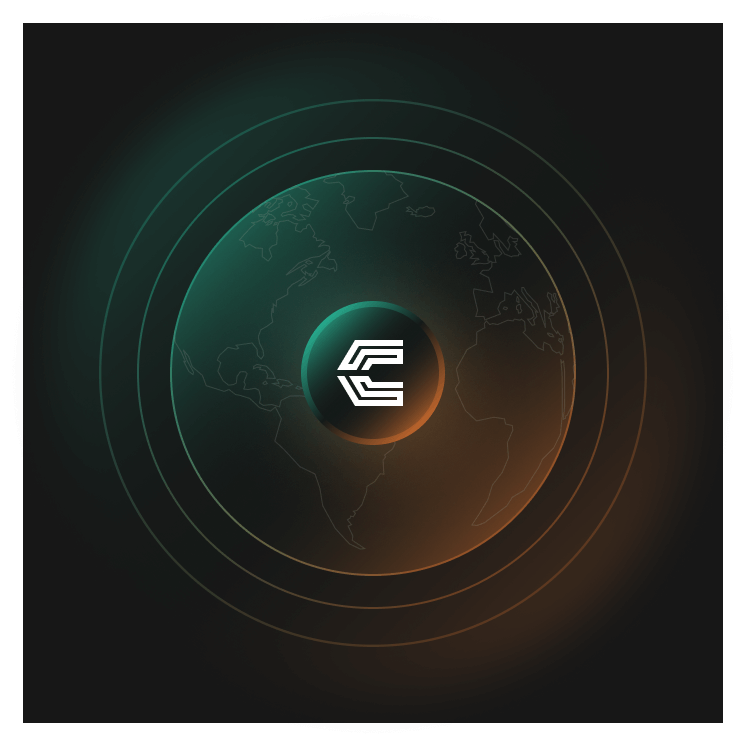
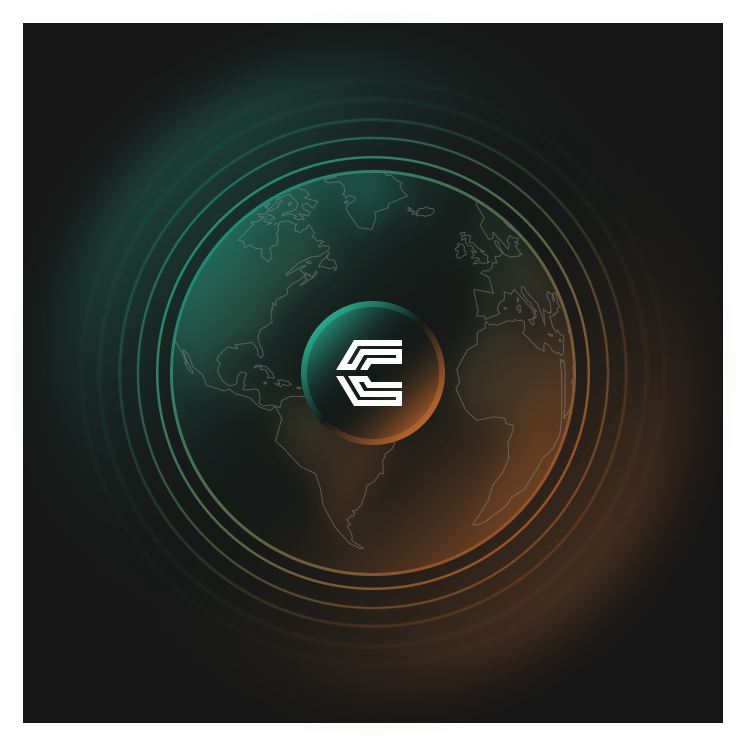
updated hero and subpage headers

diff --git a/about.html b/about.html
@@ -3,23 +3,23 @@ layout: default
 title: About us
 ---
 
-<section class="overflow-hidden mt-24 md:mt-12 py-12 md:py-32">
-  <div class="container mx-auto flex flex-col items-start">
-    <div class="text-secondary uppercase text-sm font-bold tracking-widest mb-4 lg:mb-8">About us</div>
+<section class="relative overflow-hidden my-24 md:my-12 py-12 md:py-32">
+  <div class="container mx-auto flex flex-col items-start relative z-10">
+      <div class="text-secondary uppercase text-sm font-bold tracking-widest mb-4 lg:mb-8">About</div>
       <h2 class="lg:text-7xl text-3xl mb-8 font-bold text-gray-50">
         The World of Travel <span class="text-primary">Reinvented</span>
       </h2>
-      <p class="text-muted text-lg md:text-2xl md:w-2/5 md:pr-8">
+      <p class="text-gray-200 text-lg md:text-2xl md:w-3/5 md:pr-8">
         Join the travel revolution today. With the latest blockchain technology, C4T enables you to shape the future of travel using the Camino Network.
       </p>
   </div>
+  <div class="z-0 bg-gradient-to-tr from-primary via-gray-900 to-secondary blur-3xl rounded-full w-screen h-48 absolute -bottom-24 left-1/2 -translate-x-1/2"></div>
 </section>
 
 <section x-data="{ thomasstirnimannModal: false }">
   <div class="container mx-auto flex pb-12 md:pb-24 justify-end items-center">
     <div class="hidden md:block lg:max-w-lg lg:w-full w-5/6 md:w-1/3 relative mb-8 lg:mb-0">
         <img class="object-cover object-center rounded-tl-3xl rounded-br-3xl relative z-10" alt="hero" src="../images/about-image-1.png">
-        <div class="z-0 bg-gradient-to-tl from-primary via-gray-900 to-secondary blur-lg rounded-full absolute -inset-4 opacity-50 -rotate-6"></div>
     </div>
     <div class="mb-2 md:w-2/3 md:pl-32">
       <svg xmlns="http://www.w3.org/2000/svg" fill="currentColor" class="block w-5 h-5 text-primary mb-4" viewBox="0 0 975.036 975.036">

diff --git a/supporter.html b/supporter.html
@@ -3,13 +3,14 @@ layout: default
 title: Supporters
 ---
 
-<section class="overflow-hidden mt-24 md:mt-12 py-12 md:py-32">
-    <div class="container mx-auto flex flex-col items-start">
-        <div class="text-secondary uppercase text-sm font-bold tracking-widest mb-4 lg:mb-8">Supporters</div>
-        <h2 class="lg:text-7xl text-3xl mb-8 font-bold text-gray-50">
-            The growing network of <span class="text-primary">Chain4Travel</span>
-        </h2>
-    </div>
+<section class="relative overflow-hidden my-24 md:my-12 py-12 md:py-32">
+  <div class="container mx-auto flex flex-col items-start relative z-10">
+      <div class="text-secondary uppercase text-sm font-bold tracking-widest mb-4 lg:mb-8">Supporters</div>
+      <h2 class="lg:text-7xl text-3xl mb-8 font-bold text-gray-50">
+        The growing network of <span class="text-primary">Chain4Travel</span>
+      </h2>
+  </div>
+  <div class="z-0 bg-gradient-to-tr from-primary via-gray-900 to-secondary blur-3xl rounded-full w-screen h-48 absolute -bottom-24 left-1/2 -translate-x-1/2"></div>
 </section>
 
 {% include "testimonials.html" %}

diff --git a/_includes/hero.html b/_includes/hero.html
@@ -1,7 +1,7 @@
 <section class="overflow-hidden" x-data="{ LitePaperModal: false }">
     <div class="container mx-auto flex py-12 md:py-32 md:mt-12 md:flex-row flex-col items-center mt-24">
         <div class="lg:w-1/2 flex flex-col md:items-start md:text-left mb-16 md:mb-0 items-center text-center">
-            <h1 class="2xl:text-7xl xl:text-6xl sm:text-5xl text-4xl mb-8 font-black text-gray-50">
+            <h1 class="2xl:text-7xl xl:text-6xl sm:text-5xl text-4xl mb-8 font-bold text-gray-50">
                 Connecting the <span class="text-primary">new world</span> of travel.
             </h1>
             <p class="mb-8 text-muted md:text-lg">
@@ -16,6 +16,7 @@
             </div>
         </div>
         <div class="w-5/6 md:w-1/2 order-first md:order-last relative hidden lg:block">
+            <img class="absolute z-20 left-1/2 top-1/2 -translate-x-1/2 -translate-y-1/2 w-80" alt="hero" src="images/hero-c4t.png">
             <img class="animate-pulse relative z-10 object-cover object-center rounded w-full" alt="hero" src="images/hero-image.png">
         </div>
     </div>

diff --git a/team.html b/team.html
@@ -3,13 +3,14 @@ layout: default
 title: Team
 ---
 
-<section class="overflow-hidden mt-24 md:mt-12 py-12 md:py-32">
-    <div class="container mx-auto flex flex-col items-start">
-        <div class="text-secondary uppercase text-sm font-bold tracking-widest mb-4 lg:mb-8">TEAM</div>
-        <h2 class="lg:text-7xl text-3xl mb-8 font-bold text-gray-50">
-            Members & advisors for <span class="text-primary">the future</span>
-        </h2>
-    </div>
+<section class="relative overflow-hidden my-24 md:my-12 py-12 md:py-32">
+  <div class="container mx-auto flex flex-col items-start relative z-10">
+      <div class="text-secondary uppercase text-sm font-bold tracking-widest mb-4 lg:mb-8">Team</div>
+      <h2 class="lg:text-7xl text-3xl mb-8 font-bold text-gray-50">
+        Members & advisors for <span class="text-primary">the future</span>
+      </h2>
+  </div>
+  <div class="z-0 bg-gradient-to-tr from-primary via-gray-900 to-secondary blur-3xl rounded-full w-screen h-48 absolute -bottom-24 left-1/2 -translate-x-1/2"></div>
 </section>
 
 {% include "team.html" %}

diff --git a/news-and-events.html b/news-and-events.html
@@ -5,7 +5,7 @@ title: News & Events
 
 <section class="relative overflow-hidden mt-24 md:mt-12 py-12 md:py-32">
   <div class="container mx-auto flex flex-col items-start relative z-10">
-      <div class="text-secondary uppercase text-sm font-bold tracking-widest mb-4 lg:mb-8">Supporters</div>
+      <div class="text-secondary uppercase text-sm font-bold tracking-widest mb-4 lg:mb-8">Chain4Travel around the world</div>
       <h2 class="lg:text-7xl text-3xl mb-8 font-bold text-gray-50">
           News & Events
       </h2>
